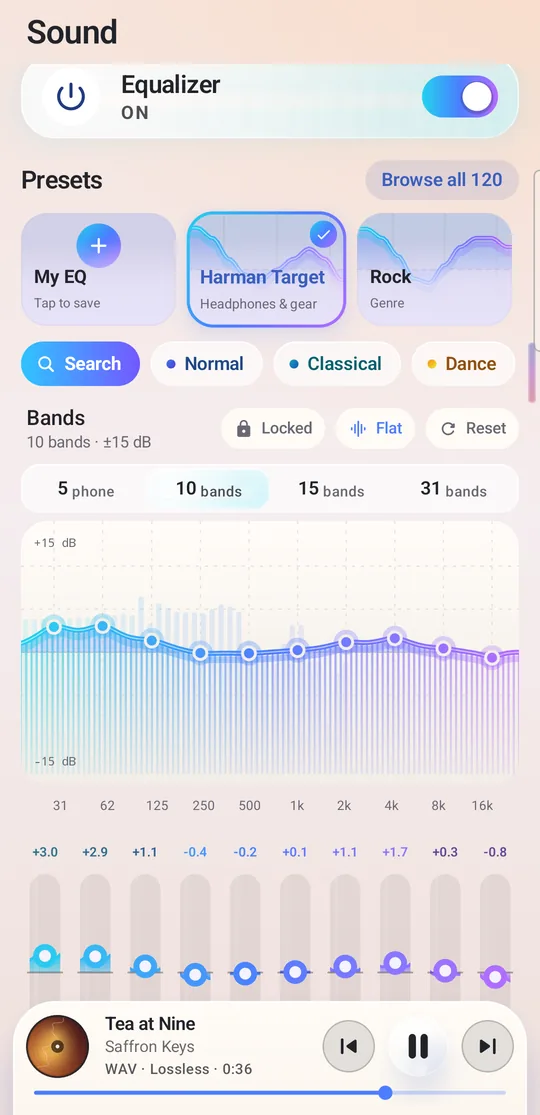
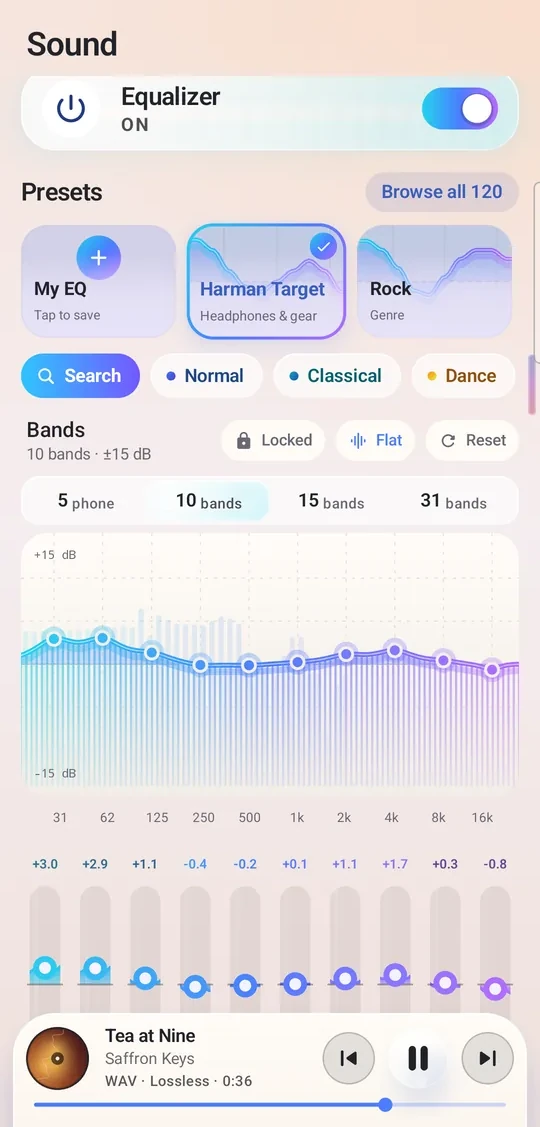
Host hifinis.com on Cloudflare (deploy/): GitHub copy keeps serving for old links and the app's app.json, browsers are forwarded to hifinis.com; screenshots start 5px lower, plain phone frame (no bezel)

diff --git a/index.html b/index.html
@@ -132,15 +132,13 @@
   .btn.main:hover { box-shadow: 0 16px 36px var(--glow); }
   .btn.alt { border: 1px solid var(--line); color: var(--fg); background: var(--bg2); }
   .small { color: var(--muted); font-size: 0.9em; }
-  /* A real bezel: the screenshot sits below a top strip with a camera dot, so the app's top
-     icons never press against the frame's rounded corners (owner 2026-11-21). */
-  .phone { width: clamp(260px, 24vw, 320px); justify-self: center; padding: 30px 10px 14px; border-radius: 44px; position: relative;
+  /* Plain frame, no notch (owner 2026-11-21). The screenshots themselves start ~5px lower, so the
+     app's top icons don't press against the edge. */
+  .phone { width: clamp(260px, 24vw, 320px); justify-self: center; padding: 10px; border-radius: 42px; position: relative;
            background: linear-gradient(150deg, #23283f, #0c0e18); box-shadow: 0 40px 90px var(--glow), 0 10px 30px rgba(0,0,0,.25);
            transform: rotate(-3deg); transition: transform .5s; }
   .phone:hover { transform: rotate(0deg) translateY(-4px); }
-  .phone::before { content: ""; position: absolute; top: 11px; left: 50%; width: 11px; height: 11px; margin-left: -5.5px;
-                   border-radius: 50%; background: #05060b; box-shadow: inset 0 0 0 2px #2b3150; }
-  .phone img { display: block; width: 100%; height: auto; border-radius: 22px; }
+  .phone img { display: block; width: 100%; height: auto; border-radius: 33px; }
   .phone .badge { position: absolute; left: -26px; bottom: 70px; background: var(--bg2); color: var(--fg); border: 1px solid var(--line);
                   border-radius: 14px; padding: 8px 12px; font-size: .82em; font-weight: 700; box-shadow: var(--shadow); transform: rotate(3deg); }
   .phone .badge span { color: #16a34a; }
@@ -165,7 +163,7 @@
 
   .shots { display: flex; gap: 18px; overflow-x: auto; padding: 30px clamp(16px, 3vw, 48px) 22px; scroll-snap-type: x mandatory; max-width: 1400px; margin: 0 auto; }
   .shots figure { margin: 0; flex: 0 0 auto; scroll-snap-align: center; text-align: center; }
-  .shots img { height: 460px; width: auto; border-radius: 28px; border: 6px solid #141729; border-top-width: 22px; border-bottom-width: 10px;
+  .shots img { height: 460px; width: auto; border-radius: 26px; border: 6px solid #141729;
                display: block; box-shadow: var(--shadow);
                transition: transform .3s; }
   .shots img:hover { transform: translateY(-6px); }
@@ -254,7 +252,7 @@
       </ul>
     </div>
     <div class="phone">
-      <img src="screenshots/01-nowplaying.webp" alt="Hifinis Now Playing: 96 kHz WAV, USB Exclusive, bit-perfect to a USB DAC" width="540" height="1115">
+      <img src="screenshots/01-nowplaying.webp" alt="Hifinis Now Playing: 96 kHz WAV, USB Exclusive, bit-perfect to a USB DAC" width="540" height="1127">
       <div class="badge"><span>&#10003;</span> Bit-perfect to your DAC</div>
     </div>
   </div>
@@ -271,14 +269,14 @@
 </div>
 
 <div class="shots" aria-label="Screenshots">
-  <figure><img src="screenshots/01-nowplaying.webp" alt="Hifinis Now Playing: 96 kHz WAV, USB Exclusive, bit-perfect to a JadeAudio JA11 DAC, Hi-Res badge" loading="lazy" width="540" height="1115"><figcaption>Bit-perfect to your DAC</figcaption></figure>
-  <figure><img src="screenshots/02-signal-path.webp" alt="Hifinis signal path: file, engine, processing and DAC all marked clean — bit-perfect" loading="lazy" width="540" height="1115"><figcaption>See every stage, live</figcaption></figure>
-  <figure><img src="screenshots/03-eq.webp" alt="Hifinis 10-band equalizer with the Harman Target preset and live spectrum" loading="lazy" width="540" height="1115"><figcaption>EQ · 5 to 31 bands · 120 presets</figcaption></figure>
-  <figure><img src="screenshots/04-home.webp" alt="Hifinis Home in the Frosted glass design: songs, albums, artists, playlists, favourites" loading="lazy" width="540" height="1115"><figcaption>Your library, your way</figcaption></figure>
-  <figure><img src="screenshots/05-lyrics.webp" alt="Hifinis synced lyrics in big type with Translate, Sync and Lock screen" loading="lazy" width="540" height="1115"><figcaption>Synced lyrics, big and clear</figcaption></figure>
-  <figure><img src="screenshots/06-outputs.webp" alt="Hifinis Outputs: USB DAC, phone speaker, Cast and sharing with other apps" loading="lazy" width="540" height="1115"><figcaption>One app, every device</figcaption></figure>
-  <figure><img src="screenshots/07-studio.webp" alt="Hifinis Audio Studio: waveform, A/B compare, loudness and true-peak meters, remaster presets" loading="lazy" width="540" height="1115"><figcaption>A full audio studio</figcaption></figure>
-  <figure><img src="screenshots/08-designs.webp" alt="Hifinis Home in the dark Cinema design" loading="lazy" width="540" height="1115"><figcaption>29 designs. Make it yours</figcaption></figure>
+  <figure><img src="screenshots/01-nowplaying.webp" alt="Hifinis Now Playing: 96 kHz WAV, USB Exclusive, bit-perfect to a JadeAudio JA11 DAC, Hi-Res badge" loading="lazy" width="540" height="1127"><figcaption>Bit-perfect to your DAC</figcaption></figure>
+  <figure><img src="screenshots/02-signal-path.webp" alt="Hifinis signal path: file, engine, processing and DAC all marked clean — bit-perfect" loading="lazy" width="540" height="1127"><figcaption>See every stage, live</figcaption></figure>
+  <figure><img src="screenshots/03-eq.webp" alt="Hifinis 10-band equalizer with the Harman Target preset and live spectrum" loading="lazy" width="540" height="1127"><figcaption>EQ · 5 to 31 bands · 120 presets</figcaption></figure>
+  <figure><img src="screenshots/04-home.webp" alt="Hifinis Home in the Frosted glass design: songs, albums, artists, playlists, favourites" loading="lazy" width="540" height="1127"><figcaption>Your library, your way</figcaption></figure>
+  <figure><img src="screenshots/05-lyrics.webp" alt="Hifinis synced lyrics in big type with Translate, Sync and Lock screen" loading="lazy" width="540" height="1127"><figcaption>Synced lyrics, big and clear</figcaption></figure>
+  <figure><img src="screenshots/06-outputs.webp" alt="Hifinis Outputs: USB DAC, phone speaker, Cast and sharing with other apps" loading="lazy" width="540" height="1127"><figcaption>One app, every device</figcaption></figure>
+  <figure><img src="screenshots/07-studio.webp" alt="Hifinis Audio Studio: waveform, A/B compare, loudness and true-peak meters, remaster presets" loading="lazy" width="540" height="1127"><figcaption>A full audio studio</figcaption></figure>
+  <figure><img src="screenshots/08-designs.webp" alt="Hifinis Home in the dark Cinema design" loading="lazy" width="540" height="1127"><figcaption>29 designs. Make it yours</figcaption></figure>
 </div>
 
 <main class="wrap">

diff --git a/theme.js b/theme.js
@@ -2,6 +2,14 @@
    the saved choice is on before the page draws (no dark flash). Adds the sun/moon button to the
    header nav of pages that have one. */
 (function () {
+  // The old GitHub copy (parivallalin.github.io/hifinis) keeps serving the files, so the app's
+  // app.json and old links still load over https, but a person who opens a page there is sent to
+  // the same page on hifinis.com, the real home (hosted on Cloudflare Pages since 2026-11-21).
+  if (/\.github\.io$/i.test(location.hostname)) {
+    var path = location.pathname.replace(/^\/hifinis(?=\/|$)/i, '') || '/';
+    location.replace('https://hifinis.com' + path + location.search + location.hash);
+    return;
+  }
   var root = document.documentElement;
   var KEY = 'hifinis-theme';
   try { if (localStorage.getItem(KEY) === 'dark') root.setAttribute('data-theme', 'dark'); } catch (e) {}

diff --git a/deploy/site.js b/deploy/site.js
@@ -1,0 +1,15 @@
+// hifinis.com: serve the static site exactly as written (/page.html stays /page.html, so the Play
+// privacy URL and every old link keep working). Only "/" needs mapping to index.html.
+export default {
+  async fetch(request, env) {
+    const url = new URL(request.url);
+    // One address only: https://hifinis.com (www and plain http are sent there).
+    if (url.hostname === "www.hifinis.com" || url.protocol === "http:") {
+      url.hostname = "hifinis.com";
+      url.protocol = "https:";
+      return Response.redirect(url.toString(), 301);
+    }
+    if (url.pathname === "/" || url.pathname === "") url.pathname = "/index.html";
+    return env.ASSETS.fetch(new Request(url.toString(), request));
+  },
+};
